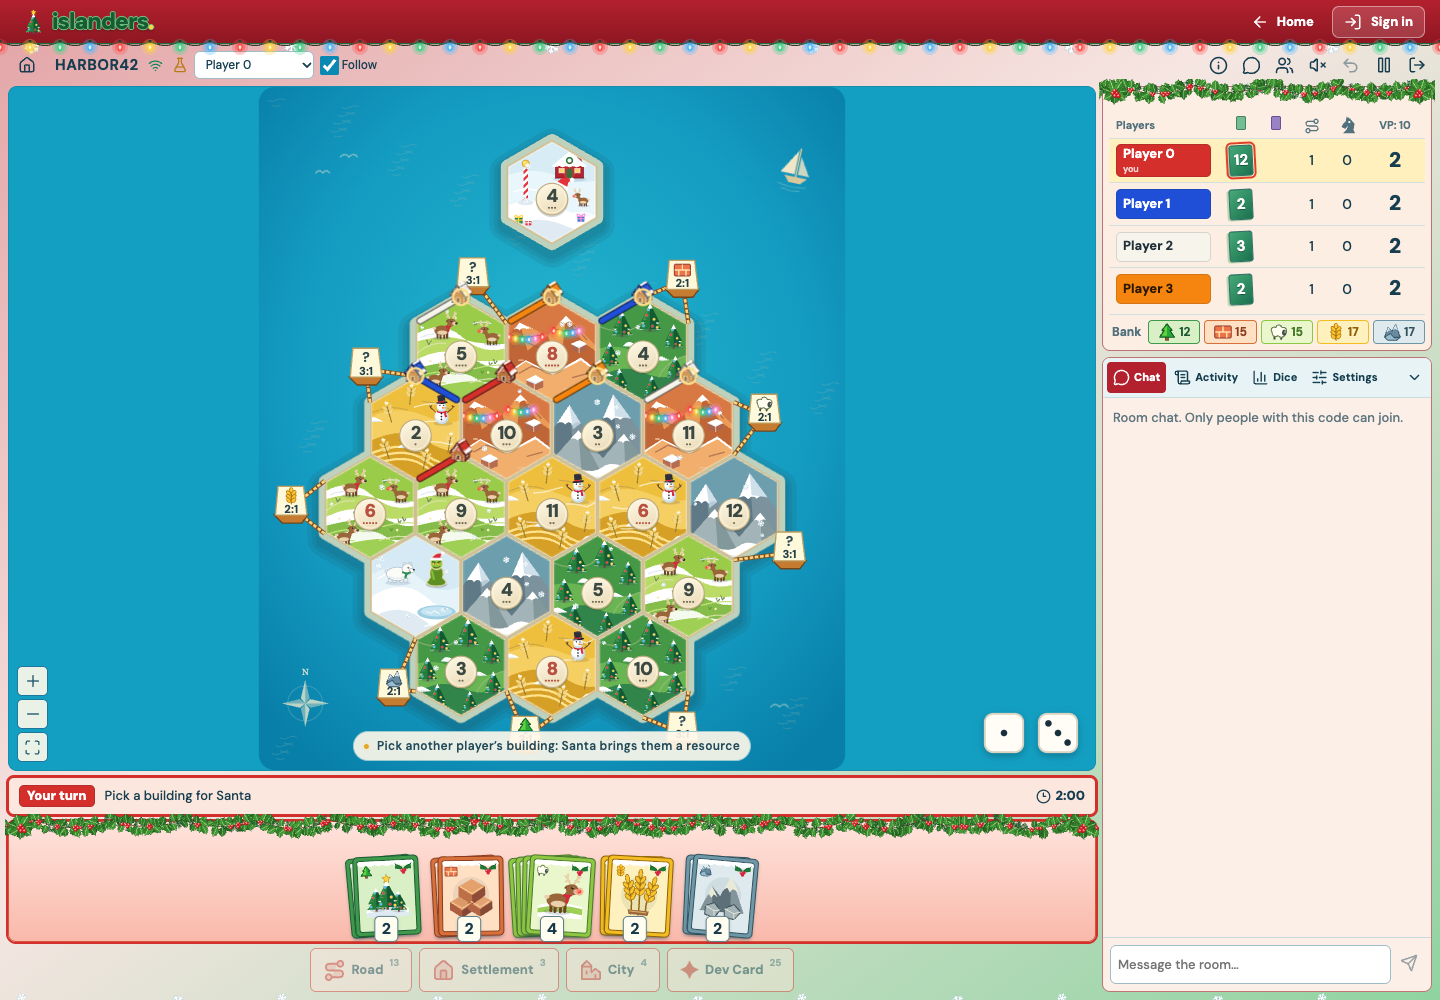
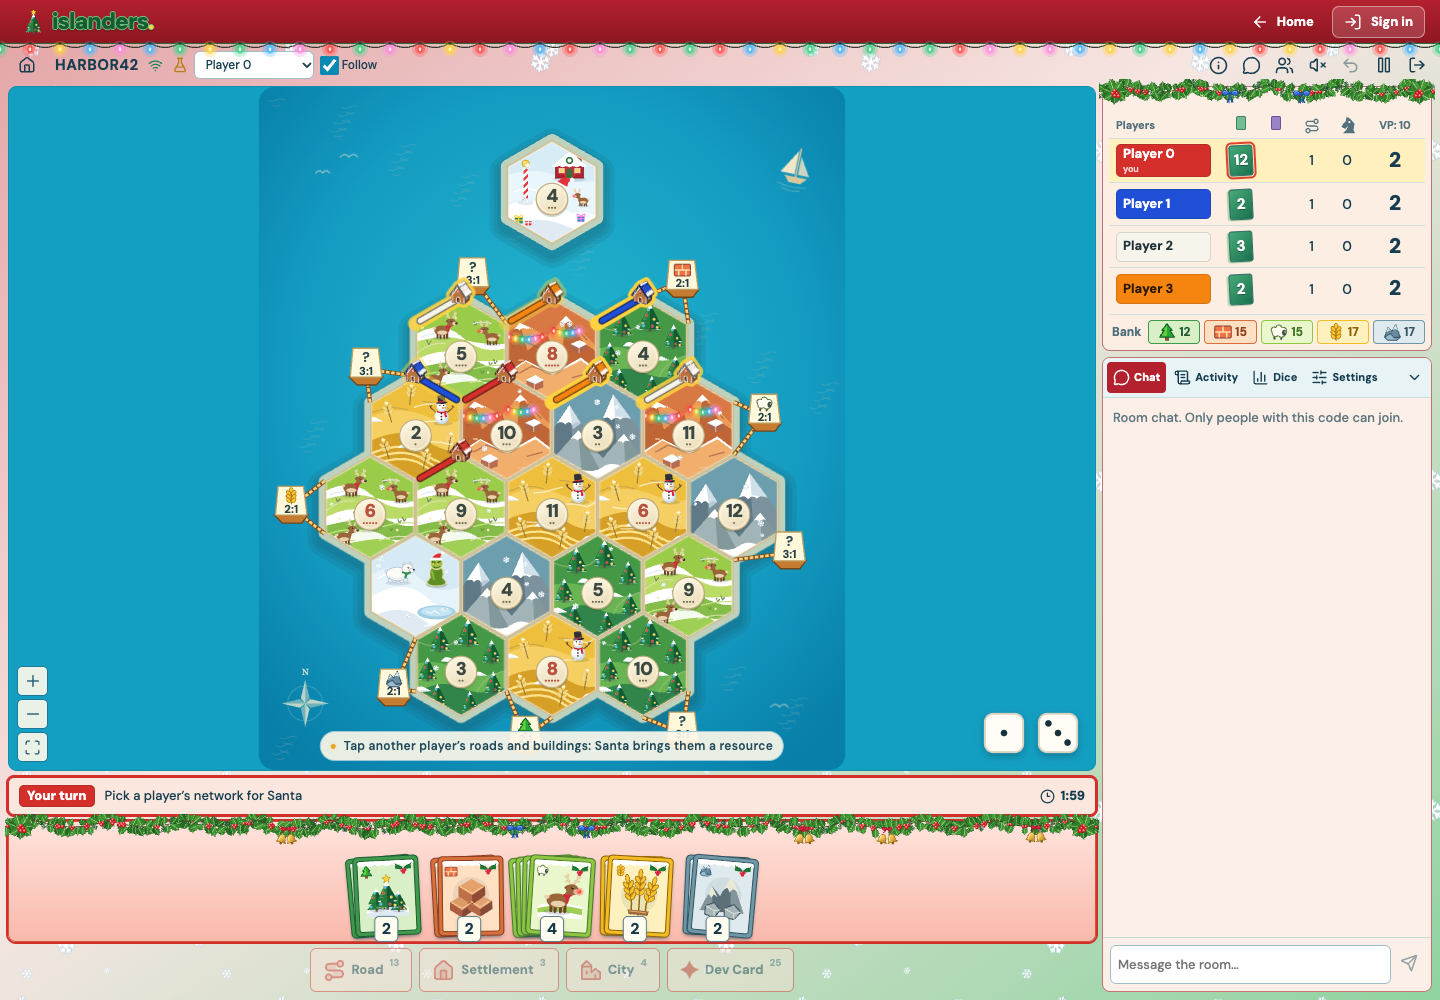
Christmas: header lights evenly spaced with even loops, random colors only; snowflakes fall slowly behind the page in three layers at different speeds

diff --git a/src/components/christmas/christmas-theme.css b/src/components/christmas/christmas-theme.css
@@ -12,9 +12,50 @@
 }
 
 .theme-christmas .app {
-  background:
-    url("./snowfall.svg") 0 0 / 260px 260px,
-    linear-gradient(145deg, #e3a3a6 0%, #f6e6e2 45%, #8fd3a0 100%);
+  background: linear-gradient(145deg, #e3a3a6 0%, #f6e6e2 45%, #8fd3a0 100%);
+  /* Its own stacking context, so the falling snow (z-index -1) sits over this background but under the page. */
+  isolation: isolate;
+}
+
+/* Falling snow (ChristmasLook): three layers of snowfall.svg, each a different size and speed.
+   Each layer is a tile taller than the screen and slides down by one tile, moved by a transform
+   so it costs no repaints. */
+.xmas-snowfall {
+  position: fixed;
+  inset: 0;
+  z-index: -1;
+  overflow: hidden;
+  pointer-events: none;
+}
+.xmas-snowfall i {
+  position: absolute;
+  left: 0;
+  right: 0;
+  top: calc(-1 * var(--tile));
+  bottom: 0;
+  background: url("./snowfall.svg") var(--shift, 0) 0 / var(--tile) var(--tile);
+  animation: xmas-snow var(--fall) linear infinite;
+  will-change: transform;
+}
+.xmas-snowfall i:nth-child(1) {
+  --tile: 260px;
+  --fall: 34s;
+}
+.xmas-snowfall i:nth-child(2) {
+  --tile: 200px;
+  --fall: 30s;
+  --shift: 90px;
+  opacity: 0.8;
+}
+.xmas-snowfall i:nth-child(3) {
+  --tile: 330px;
+  --fall: 40s;
+  --shift: 170px;
+}
+@keyframes xmas-snow {
+  to {
+    transform: translateY(var(--tile));
+  }
 }
 
 /* The header: deep red, with a string of bulbs along its bottom edge. */
@@ -33,7 +74,7 @@
   bottom: -26px;
   height: 30px;
   pointer-events: none;
-  /* Bulbs of random colors at random spacing on a wire that droops between them (header-lights.svg). */
+  /* Evenly spaced bulbs in random colors (header-lights.svg). */
   background: url("./header-lights.svg") 0 0 / auto 30px repeat-x;
   animation: xmas-header-flicker 5s steps(1, end) infinite;
 }
@@ -162,7 +203,8 @@
 }
 
 @media (prefers-reduced-motion: reduce) {
-  .theme-christmas .site-header::after {
+  .theme-christmas .site-header::after,
+  .xmas-snowfall i {
     animation: none;
   }
 }

diff --git a/src/components/christmas/ChristmasLook.tsx b/src/components/christmas/ChristmasLook.tsx
@@ -4,12 +4,24 @@ import './christmas-theme.css';
 
 /**
  * The Christmas look for a room that has it on: winter tiles and festive cards (through the art's
- * ChristmasTheme), and the page's colors (the `theme-christmas` class on the document).
+ * ChristmasTheme), the page's colors (the `theme-christmas` class on the document), and snow falling
+ * behind the page.
  */
 export default function ChristmasLook({ on, children }: { on: boolean; children: ReactNode }) {
   useEffect(() => {
     document.documentElement.classList.toggle('theme-christmas', on);
     return () => document.documentElement.classList.remove('theme-christmas');
   }, [on]);
-  return <ChristmasTheme.Provider value={on}>{children}</ChristmasTheme.Provider>;
+  return (
+    <ChristmasTheme.Provider value={on}>
+      {on && (
+        <div className="xmas-snowfall" aria-hidden="true">
+          <i />
+          <i />
+          <i />
+        </div>
+      )}
+      {children}
+    </ChristmasTheme.Provider>
+  );
 }
